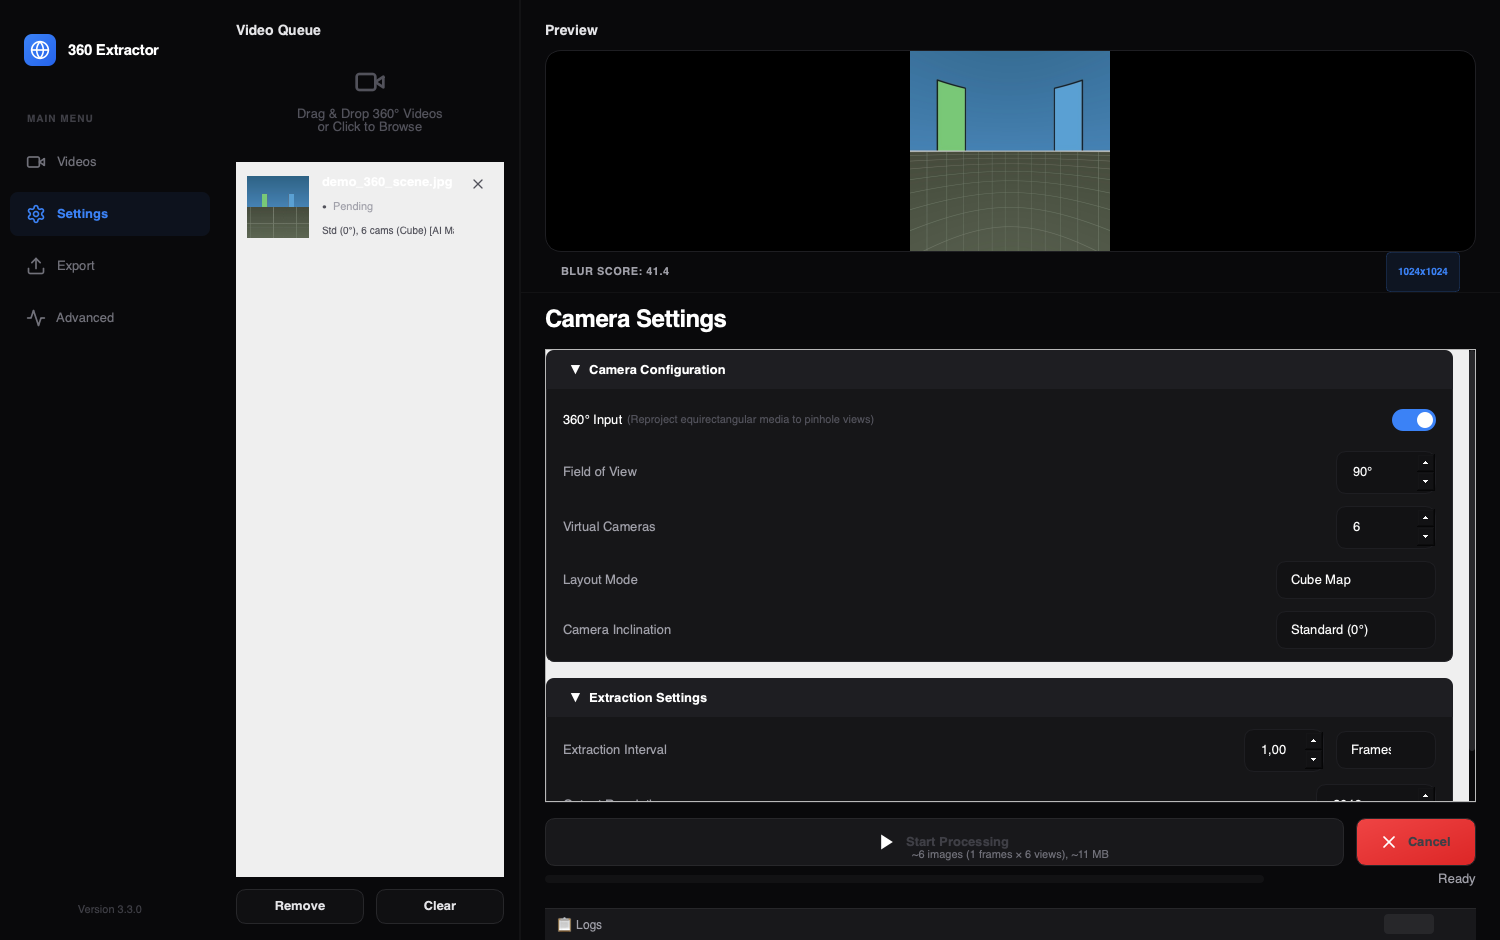
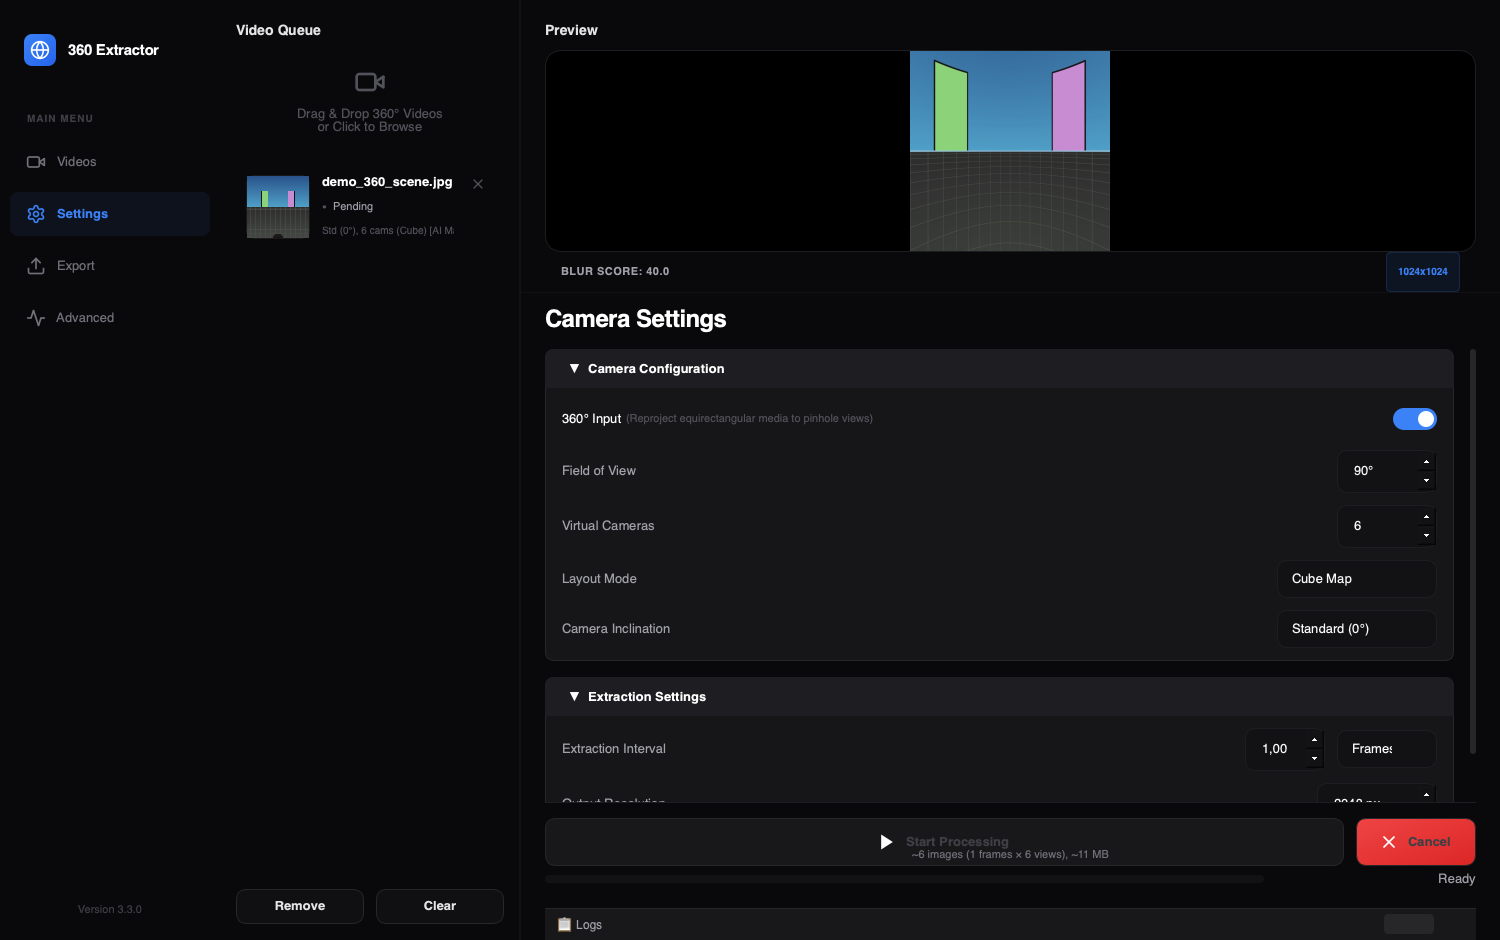
docs: generate showcase pipeline and CLI terminal assets

diff --git a/scripts/make_screenshot.py b/scripts/make_screenshot.py
@@ -1,12 +1,13 @@
 #!/usr/bin/env python3
-"""Render the README screenshot of the GUI, headlessly.
+"""Generate high-quality documentation screenshots and showcase assets for 360 Extractor.
 
-No display needed: Qt runs on the "offscreen" platform and the window is
-grabbed straight into a PNG. A synthetic equirectangular demo image is put in
-the queue so the preview panel shows a real reprojected view rather than the
-empty state.
+Produces:
+  1. docs/images/screenshot-gui.png   - Main GUI interface (Dark mode, live preview, queue)
+  2. docs/images/showcase-pipeline.png - Visual 360° to pinhole reprojection & AI masking pipeline
+  3. docs/images/screenshot-cli.png   - Sleek terminal showcase of CLI batch processing
 
-    python scripts/make_screenshot.py [-o docs/images/screenshot-gui.png]
+Usage:
+    python scripts/make_screenshot.py
 """
 from __future__ import annotations
 
@@ -26,43 +27,215 @@ import numpy as np  # noqa: E402
 from PySide6.QtCore import QEventLoop, QTimer  # noqa: E402
 from PySide6.QtWidgets import QApplication  # noqa: E402
 
+from extractor360.core.geometry import GeometryProcessor  # noqa: E402
 
-def make_demo_equirect(path: Path, width: int = 2048, height: int = 1024) -> None:
-    """A synthetic 360 scene: sky, ground, horizon and coloured pillars.
 
-    Synthetic on purpose — the screenshot must not pass off someone else's
-    footage as a sample. It still exercises the real reprojection path.
+def make_demo_equirect(path: Path, width: int = 2048, height: int = 1024) -> np.ndarray:
+    """Create a rich synthetic 360 equirectangular scene: sky gradient, perspective grid,
+    architectural pillars around the horizon, nadir tripod, and an operator silhouette.
     """
     img = np.zeros((height, width, 3), dtype=np.uint8)
     horizon = height // 2
 
-    # Sky: deep blue at the zenith fading to pale at the horizon (BGR).
+    # Sky: dusk gradient from deep navy blue to warm gold at horizon (BGR)
     for y in range(horizon):
         t = y / horizon
-        img[y, :] = (int(180 - 60 * (1 - t)), int(130 - 40 * (1 - t)), int(70 - 30 * (1 - t)))
+        b = int(120 * (1 - t) + 200 * t)
+        g = int(60 * (1 - t) + 160 * t)
+        r = int(30 * (1 - t) + 80 * t)
+        img[y, :] = (b, g, r)
 
-    # Ground: darker, fading with depth.
+    # Ground: dark slate fading into distance
     for y in range(horizon, height):
         t = (y - horizon) / (height - horizon)
-        img[y, :] = (int(60 + 30 * t), int(75 + 35 * t), int(70 + 30 * t))
+        b = int(45 + 30 * t)
+        g = int(45 + 35 * t)
+        r = int(45 + 30 * t)
+        img[y, :] = (b, g, r)
 
-    # Ground grid, denser near the horizon (reads as perspective once reprojected).
-    for x in range(0, width, width // 48):
-        cv2.line(img, (x, horizon), (x, height), (110, 125, 115), 1)
-    for i in range(1, 14):
-        y = horizon + int((height - horizon) * (i / 14) ** 2)
-        cv2.line(img, (0, y), (width, y), (110, 125, 115), 1)
+    # Ground perspective grid lines
+    for x in range(0, width, width // 64):
+        cv2.line(img, (x, horizon), (x, height), (75, 85, 80), 1)
+    for i in range(1, 16):
+        y = horizon + int((height - horizon) * (i / 16) ** 2)
+        cv2.line(img, (0, y), (width, y), (75, 85, 80), 1)
 
-    # Coloured pillars around the horizon so every view has structure.
-    palette = [(80, 90, 220), (90, 180, 240), (120, 200, 120), (210, 160, 90), (200, 120, 200), (90, 210, 230)]
+    # Coloured architectural pillars placed around 360 degrees
+    palette = [
+        (220, 110, 80),   # Blue-orange
+        (90, 190, 240),   # Amber
+        (120, 210, 140),  # Emerald
+        (210, 140, 200),  # Purple
+        (80, 220, 220),   # Cyan
+        (200, 100, 120),  # Crimson
+    ]
     for i, colour in enumerate(palette):
         cx = int((i + 0.5) * width / len(palette))
-        w = width // 60
-        cv2.rectangle(img, (cx - w, horizon - height // 6), (cx + w, horizon), colour, -1)
-        cv2.rectangle(img, (cx - w, horizon - height // 6), (cx + w, horizon), (30, 30, 30), 2)
+        w = width // 50
+        h_val = height // 5
+        cv2.rectangle(img, (cx - w, horizon - h_val), (cx + w, horizon), colour, -1)
+        cv2.rectangle(img, (cx - w, horizon - h_val), (cx + w, horizon), (20, 20, 25), 2)
 
-    cv2.line(img, (0, horizon), (width, horizon), (200, 200, 200), 2)
+    # Horizon line glow
+    cv2.line(img, (0, horizon), (width, horizon), (230, 200, 150), 2)
+
+    # Nadir Tripod & Selfie Stick at the bottom (y near height)
+    nadir_cx = width // 2
+    nadir_cy = int(height * 0.9)
+    cv2.circle(img, (nadir_cx, nadir_cy), 70, (25, 25, 30), -1)
+    cv2.line(img, (nadir_cx, nadir_cy), (nadir_cx - 180, height), (40, 40, 45), 6)
+    cv2.line(img, (nadir_cx, nadir_cy), (nadir_cx + 180, height), (40, 40, 45), 6)
+    cv2.line(img, (nadir_cx, nadir_cy), (nadir_cx, height), (40, 40, 45), 6)
+    cv2.circle(img, (nadir_cx, nadir_cy), 25, (15, 15, 20), -1)
+
+    # Save to file
     cv2.imwrite(str(path), img)
+    return img
+
+
+def make_pipeline_showcase(equirect_img: np.ndarray, output_path: Path) -> None:
+    """Generate docs/images/showcase-pipeline.png showing 360 Equirectangular source
+    vs 6 Extracted Cube Map faces with Nadir Masking applied.
+    """
+    canvas_w, canvas_h = 1600, 920
+    canvas = np.zeros((canvas_h, canvas_w, 3), dtype=np.uint8)
+    canvas[:] = (14, 11, 9)  # Dark #09090B background
+
+    # Header title banner
+    font = cv2.FONT_HERSHEY_SIMPLEX
+    cv2.putText(canvas, "360 Extractor Pipeline Showcase", (40, 55), font, 1.1, (245, 245, 250), 2, cv2.LINE_AA)
+    cv2.putText(canvas, "Equirectangular 360 Reprojection to Rectilinear Pinhole Views & AI/Nadir Masking", (40, 90), font, 0.55, (160, 160, 170), 1, cv2.LINE_AA)
+
+    # Section 1: Equirectangular 360 Input
+    eq_w, eq_h = 680, 340
+    eq_resized = cv2.resize(equirect_img, (eq_w, eq_h), interpolation=cv2.INTER_AREA)
+
+    # Card background for equirectangular input
+    card1_x, card1_y = 40, 120
+    cv2.rectangle(canvas, (card1_x, card1_y), (card1_x + eq_w + 30, card1_y + eq_h + 90), (22, 19, 16), -1)
+    cv2.rectangle(canvas, (card1_x, card1_y), (card1_x + eq_w + 30, card1_y + eq_h + 90), (45, 40, 35), 1)
+
+    cv2.putText(canvas, "1. EQUIRECTANGULAR 360 INPUT (2048 x 1024)", (card1_x + 15, card1_y + 35), font, 0.55, (59, 130, 246), 2, cv2.LINE_AA)
+    canvas[card1_y + 50 : card1_y + 50 + eq_h, card1_x + 15 : card1_x + 15 + eq_w] = eq_resized
+
+    # Section 2: Arrow/Reprojection indicator
+    arrow_x1 = card1_x + eq_w + 50
+    arrow_x2 = arrow_x1 + 120
+    arrow_y = card1_y + 220
+    cv2.putText(canvas, "REPROJECT & MASK", (arrow_x1 - 10, arrow_y - 20), font, 0.45, (140, 140, 150), 1, cv2.LINE_AA)
+    cv2.arrowedLine(canvas, (arrow_x1, arrow_y + 10), (arrow_x2, arrow_y + 10), (59, 130, 246), 3, tipLength=0.25)
+
+    # Section 3: Extracted Cube Map Views
+    card2_x, card2_y = arrow_x2 + 30, 120
+    card2_w, card2_h = 620, 720
+    cv2.rectangle(canvas, (card2_x, card2_y), (card2_x + card2_w, card2_y + card2_h), (22, 19, 16), -1)
+    cv2.rectangle(canvas, (card2_x, card2_y), (card2_x + card2_w, card2_y + card2_h), (45, 40, 35), 1)
+
+    cv2.putText(canvas, "2. EXTRACTED PINHOLE VIEWS (CUBE MAP 6-FACES)", (card2_x + 20, card2_y + 35), font, 0.55, (34, 197, 94), 2, cv2.LINE_AA)
+    cv2.putText(canvas, "With Nadir Disc Masking on Down face & EXIF Telemetry", (card2_x + 20, card2_y + 60), font, 0.45, (140, 140, 150), 1, cv2.LINE_AA)
+
+    # Generate 6 Cube Map faces (Front, Right, Back, Left, Up, Down)
+    views = GeometryProcessor.generate_views(6, layout_mode="cube")
+    face_w = 175
+    src_h, src_w = equirect_img.shape[:2]
+
+    positions = [
+        ("Front", 0, 0), ("Right", 1, 0), ("Back", 2, 0),
+        ("Left", 0, 1), ("Up", 1, 1), ("Down", 2, 1),
+    ]
+
+    grid_start_x = card2_x + 25
+    grid_start_y = card2_y + 85
+
+    for name, yaw, pitch, roll in views:
+        pos_idx = [p for p in positions if p[0] == name][0]
+        col, row = pos_idx[1], pos_idx[2]
+
+        # Compute map
+        map_x, map_y = GeometryProcessor.create_rectilinear_map(src_h, src_w, face_w, face_w, 90, yaw, pitch, roll)
+        face_img = cv2.remap(equirect_img, map_x, map_y, cv2.INTER_LINEAR)
+
+        # Apply Nadir mask on Down face
+        if name == "Down":
+            cv2.circle(face_img, (face_w // 2, face_w // 2), int(face_w * 0.38), (0, 0, 0), -1)
+            cv2.putText(face_img, "NADIR MASK", (face_w // 2 - 45, face_w // 2 + 5), font, 0.38, (34, 197, 94), 1, cv2.LINE_AA)
+
+        px = grid_start_x + col * (face_w + 20)
+        py = grid_start_y + row * (face_w + 45)
+
+        # Place view image
+        canvas[py : py + face_w, px : px + face_w] = face_img
+        cv2.rectangle(canvas, (px, py), (px + face_w, py + face_w), (60, 60, 70), 1)
+
+        # View label
+        cv2.putText(canvas, f"{name} (yaw {int(yaw)} deg)", (px, py + face_w + 20), font, 0.42, (220, 220, 230), 1, cv2.LINE_AA)
+
+    # Additional feature callout footer
+    foot_y = card1_y + eq_h + 120
+    features = [
+        ("> Equirectangular Reprojection (Ring, Cube, Fibonacci)", (59, 130, 246)),
+        ("> AI Operator Removal (80 COCO Classes, Soft Alpha)", (34, 197, 94)),
+        ("> Gaussian Splatting / COLMAP Rig & EXIF Telemetry", (168, 85, 247)),
+    ]
+    for i, (feat_text, col_bgr) in enumerate(features):
+        cv2.putText(canvas, feat_text, (card1_x + 15, foot_y + i * 35), font, 0.55, col_bgr, 1, cv2.LINE_AA)
+
+    output_path.parent.mkdir(parents=True, exist_ok=True)
+    cv2.imwrite(str(output_path), canvas)
+    print(f"Wrote {output_path} ({output_path.stat().st_size / 1024:.0f} KB)")
+
+
+def make_cli_showcase(output_path: Path) -> None:
+    """Generate docs/images/screenshot-cli.png showing a dark modern terminal mockup."""
+    canvas_w, canvas_h = 1300, 720
+    canvas = np.zeros((canvas_h, canvas_w, 3), dtype=np.uint8)
+    canvas[:] = (14, 11, 9)  # Dark background
+
+    # Window container
+    win_x, win_y = 50, 40
+    win_w, win_h = 1200, 640
+    cv2.rectangle(canvas, (win_x, win_y), (win_x + win_w, win_y + win_h), (24, 20, 18), -1)
+    cv2.rectangle(canvas, (win_x, win_y), (win_x + win_w, win_y + win_h), (50, 45, 40), 1)
+
+    # Title bar
+    title_h = 36
+    cv2.rectangle(canvas, (win_x, win_y), (win_x + win_w, win_y + title_h), (32, 28, 25), -1)
+
+    # Window controls (macOS style dots)
+    cv2.circle(canvas, (win_x + 20, win_y + 18), 6, (68, 68, 239), -1)   # Red
+    cv2.circle(canvas, (win_x + 40, win_y + 18), 6, (92, 200, 245), -1)  # Yellow
+    cv2.circle(canvas, (win_x + 60, win_y + 18), 6, (94, 197, 34), -1)   # Green
+
+    font = cv2.FONT_HERSHEY_SIMPLEX
+    cv2.putText(canvas, "bash - 360 Extractor CLI Automation (COLMAP & Gaussian Splatting)", (win_x + 90, win_y + 24), font, 0.45, (160, 160, 170), 1, cv2.LINE_AA)
+
+    # Terminal text lines
+    lines = [
+        ("$ python3 src/main.py --input MAX_0001.mp4 --output out/colmap \\", (245, 245, 250)),
+        ("    --layout cube --interval 1.0 --resolution 2048 \\", (245, 245, 250)),
+        ("    --export-telemetry --nadir-mask --ai-mask --export-colmap", (245, 245, 250)),
+        ("", (0, 0, 0)),
+        ("[INFO] 360 Extractor v3.3.0 initialized", (59, 130, 246)),
+        ("[INFO] Input media: MAX_0001.mp4 (Equirectangular 5.6K, 30fps, 120.0s)", (180, 180, 180)),
+        ("[INFO] GPMF Telemetry detected: 3,600 GPS/IMU records extracted", (34, 197, 94)),
+        ("[INFO] AI Masking active: YOLO26n-seg loaded on Apple Silicon Metal (MPS)", (168, 85, 247)),
+        ("[INFO] Processing 120 keyframes (Cube map x 6 views = 720 rectilinear pinhole frames)...", (180, 180, 180)),
+        ("[PROGRESS] [========================================] 100% (720/720 views generated)", (34, 197, 94)),
+        ("[INFO] EXIF metadata injected (GPS position, camera intrinsics, datetime)", (34, 197, 94)),
+        ("[INFO] COLMAP workspace generated: out/colmap/cameras.txt, images.txt, reconstruct.sh", (59, 130, 246)),
+        ("[SUCCESS] Extraction completed in 14.2s (50.7 fps). Ready for COLMAP / Postshot!", (34, 197, 94)),
+        ("", (0, 0, 0)),
+        ("$ _", (245, 245, 250)),
+    ]
+
+    start_y = win_y + title_h + 30
+    for i, (text, color) in enumerate(lines):
+        if text:
+            cv2.putText(canvas, text, (win_x + 25, start_y + i * 28), font, 0.46, color, 1, cv2.LINE_AA)
+
+    output_path.parent.mkdir(parents=True, exist_ok=True)
+    cv2.imwrite(str(output_path), canvas)
+    print(f"Wrote {output_path} ({output_path.stat().st_size / 1024:.0f} KB)")
 
 
 def pump(app: QApplication, ms: int) -> None:
@@ -76,12 +249,10 @@ def pump(app: QApplication, ms: int) -> None:
 def main(argv: list[str] | None = None) -> int:
     parser = argparse.ArgumentParser(description=__doc__.splitlines()[0])
     parser.add_argument(
-        "-o", "--output",
+        "-o", "--output-gui",
         default=str(REPO_ROOT / "docs" / "images" / "screenshot-gui.png"),
-        help="Where to write the PNG",
+        help="Where to write the GUI PNG",
     )
-    parser.add_argument("--width", type=int, default=1500)
-    parser.add_argument("--height", type=int, default=940)
     args = parser.parse_args(argv)
 
     from extractor360.ui.main_window import MainWindow
@@ -90,29 +261,35 @@ def main(argv: list[str] | None = None) -> int:
 
     with tempfile.TemporaryDirectory() as tmp:
         demo = Path(tmp) / "demo_360_scene.jpg"
-        make_demo_equirect(demo)
+        equirect_img = make_demo_equirect(demo)
 
         window = MainWindow()
-        window.resize(args.width, args.height)
+        window.resize(1500, 940)
         window.show()
 
         window.add_job(str(demo))
 
-        # Show the Settings page: the default "Videos" page hides the settings
-        # panel, and the settings are what the tool is actually about.
         window.sidebar.setActivePage("settings")
         window.sidebar.page_changed.emit("settings")
 
-        # Let the thumbnail + the (debounced) preview render before grabbing.
         pump(app, 1800)
 
-        output = Path(args.output)
-        output.parent.mkdir(parents=True, exist_ok=True)
-        if not window.grab().save(str(output)):
-            print(f"error: could not write {output}", file=sys.stderr)
+        gui_out = Path(args.output_gui)
+        gui_out.parent.mkdir(parents=True, exist_ok=True)
+        if not window.grab().save(str(gui_out)):
+            print(f"error: could not write {gui_out}", file=sys.stderr)
             return 1
 
-    print(f"Wrote {output} ({output.stat().st_size / 1024:.0f} KB)")
+        print(f"Wrote {gui_out} ({gui_out.stat().st_size / 1024:.0f} KB)")
+
+        # Generate showcase pipeline diagram
+        showcase_out = REPO_ROOT / "docs" / "images" / "showcase-pipeline.png"
+        make_pipeline_showcase(equirect_img, showcase_out)
+
+        # Generate CLI showcase image
+        cli_out = REPO_ROOT / "docs" / "images" / "screenshot-cli.png"
+        make_cli_showcase(cli_out)
+
     return 0
 
 

diff --git a/README.md b/README.md
@@ -7,8 +7,13 @@
 High-performance desktop application and command-line tool for 360° and standard video/image preprocessing. This tool generates optimized datasets for Gaussian Splatting and photogrammetry (COLMAP, RealityScan) by converting equirectangular media into rectilinear pinhole views and removing operators using AI.
 
 > See the [CHANGELOG](CHANGELOG.md) for what's new in each release.
-
 ![The 360 Extractor GUI: job queue, live perspective preview and camera settings](docs/images/screenshot-gui.png)
+
+## Overview & Reprojection Pipeline
+
+360 Extractor provides an end-to-end processing pipeline for turning raw 360° video (GoPro Max, Insta360, Kandao) or standard media into clean pinhole view datasets ready for COLMAP, Postshot, and RealityScan:
+
+![360 Extractor Reprojection & AI Masking Pipeline Showcase](docs/images/showcase-pipeline.png)
 
 ## Download
 
@@ -70,6 +75,9 @@ python3 src/main.py
 
 ### CLI Mode
 Process videos via command line for automation:
+
+![360 Extractor CLI Automation Showcase](docs/images/screenshot-cli.png)
+
 ```bash
 python3 src/main.py --input <video_path> --output <output_dir> --interval 1.0
 ```
